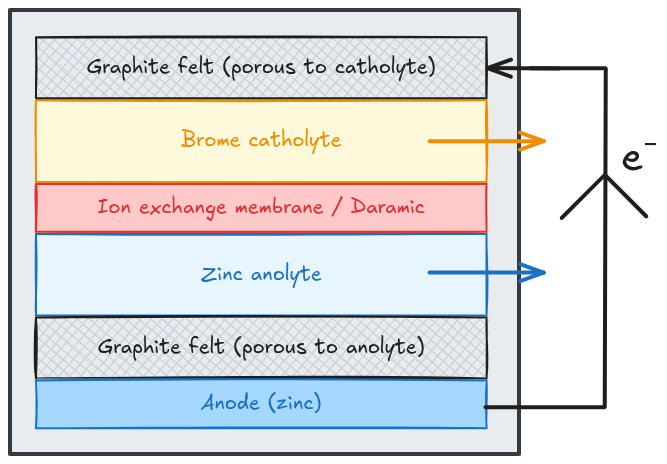
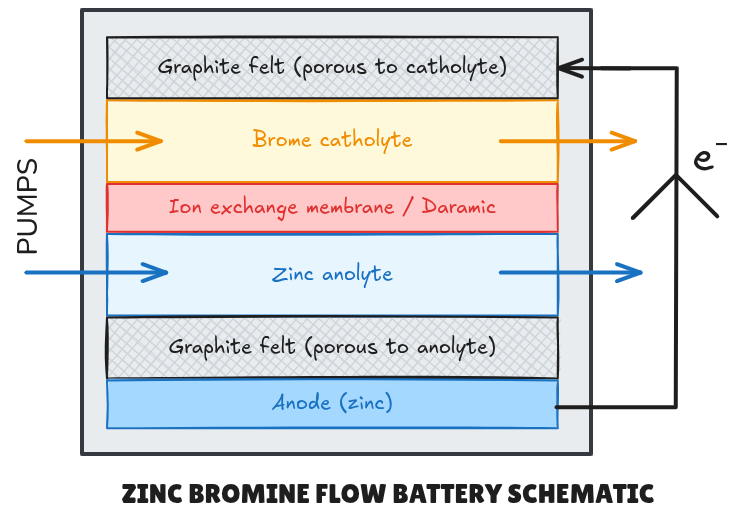
Published multiple files

diff --git a/src/site/notes/AIBN/Project - Research Internship MOF aSEIs for zinc bromine flow batteries.md b/src/site/notes/AIBN/Project - Research Internship MOF aSEIs for zinc bromine flow batteries.md
@@ -34,7 +34,7 @@ In addition, it will be worth investigating the film application from the follow
 
 In order to quantify their effects, film homogeneity will be evaluated via optical microscopy and thickness via a micrometer caliper. If possible, SEM imaging would help confirm suspicions established via these macro methods. 
 
-Once completed, the stable binder + MOF combinations can be evaluated on their effect on bromine diffusion across the separator. 
+Once completed, the stable binder + MOF combinations can be evaluated on their effect on bromine diffusion across the separator
 
 ## Protocoles
 ### H-cell diffusion experiment

diff --git a/src/site/notes/AIBN/AIBN - Zinc–Bromine Rechargeable Batteries - Nano-Micro Letters.md b/src/site/notes/AIBN/AIBN - Zinc–Bromine Rechargeable Batteries - Nano-Micro Letters.md
@@ -90,6 +90,8 @@ Zinc anolyte
 Graphite felt (porous to anolyte) 
 Anode (zinc) 
 e⁻ 
+ZINC BROMINE FLOW BATTERY SCHEMATIC 
+PUMPS 
 
 
 </div></div>
